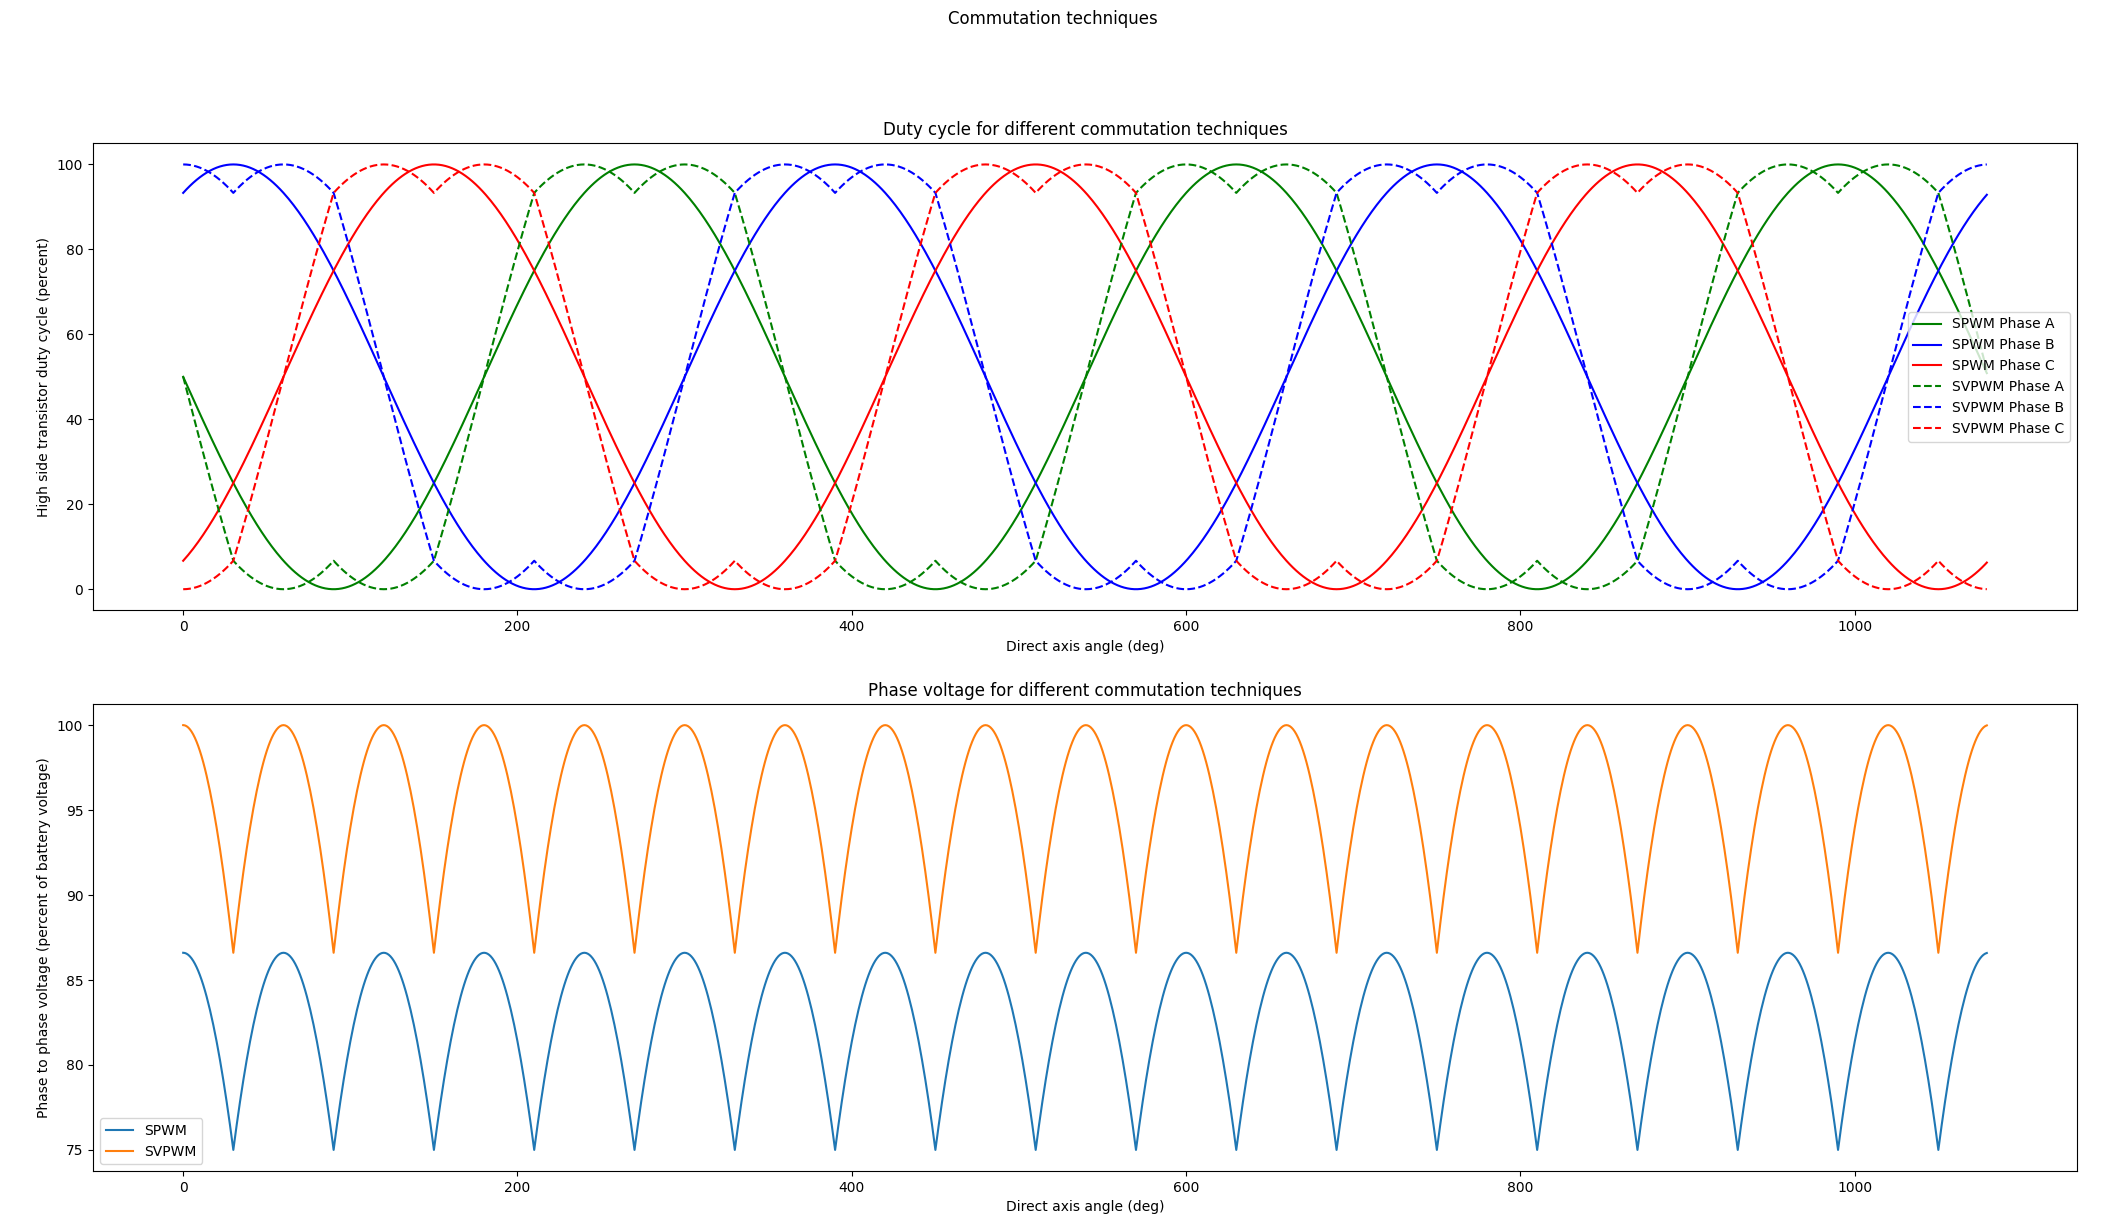
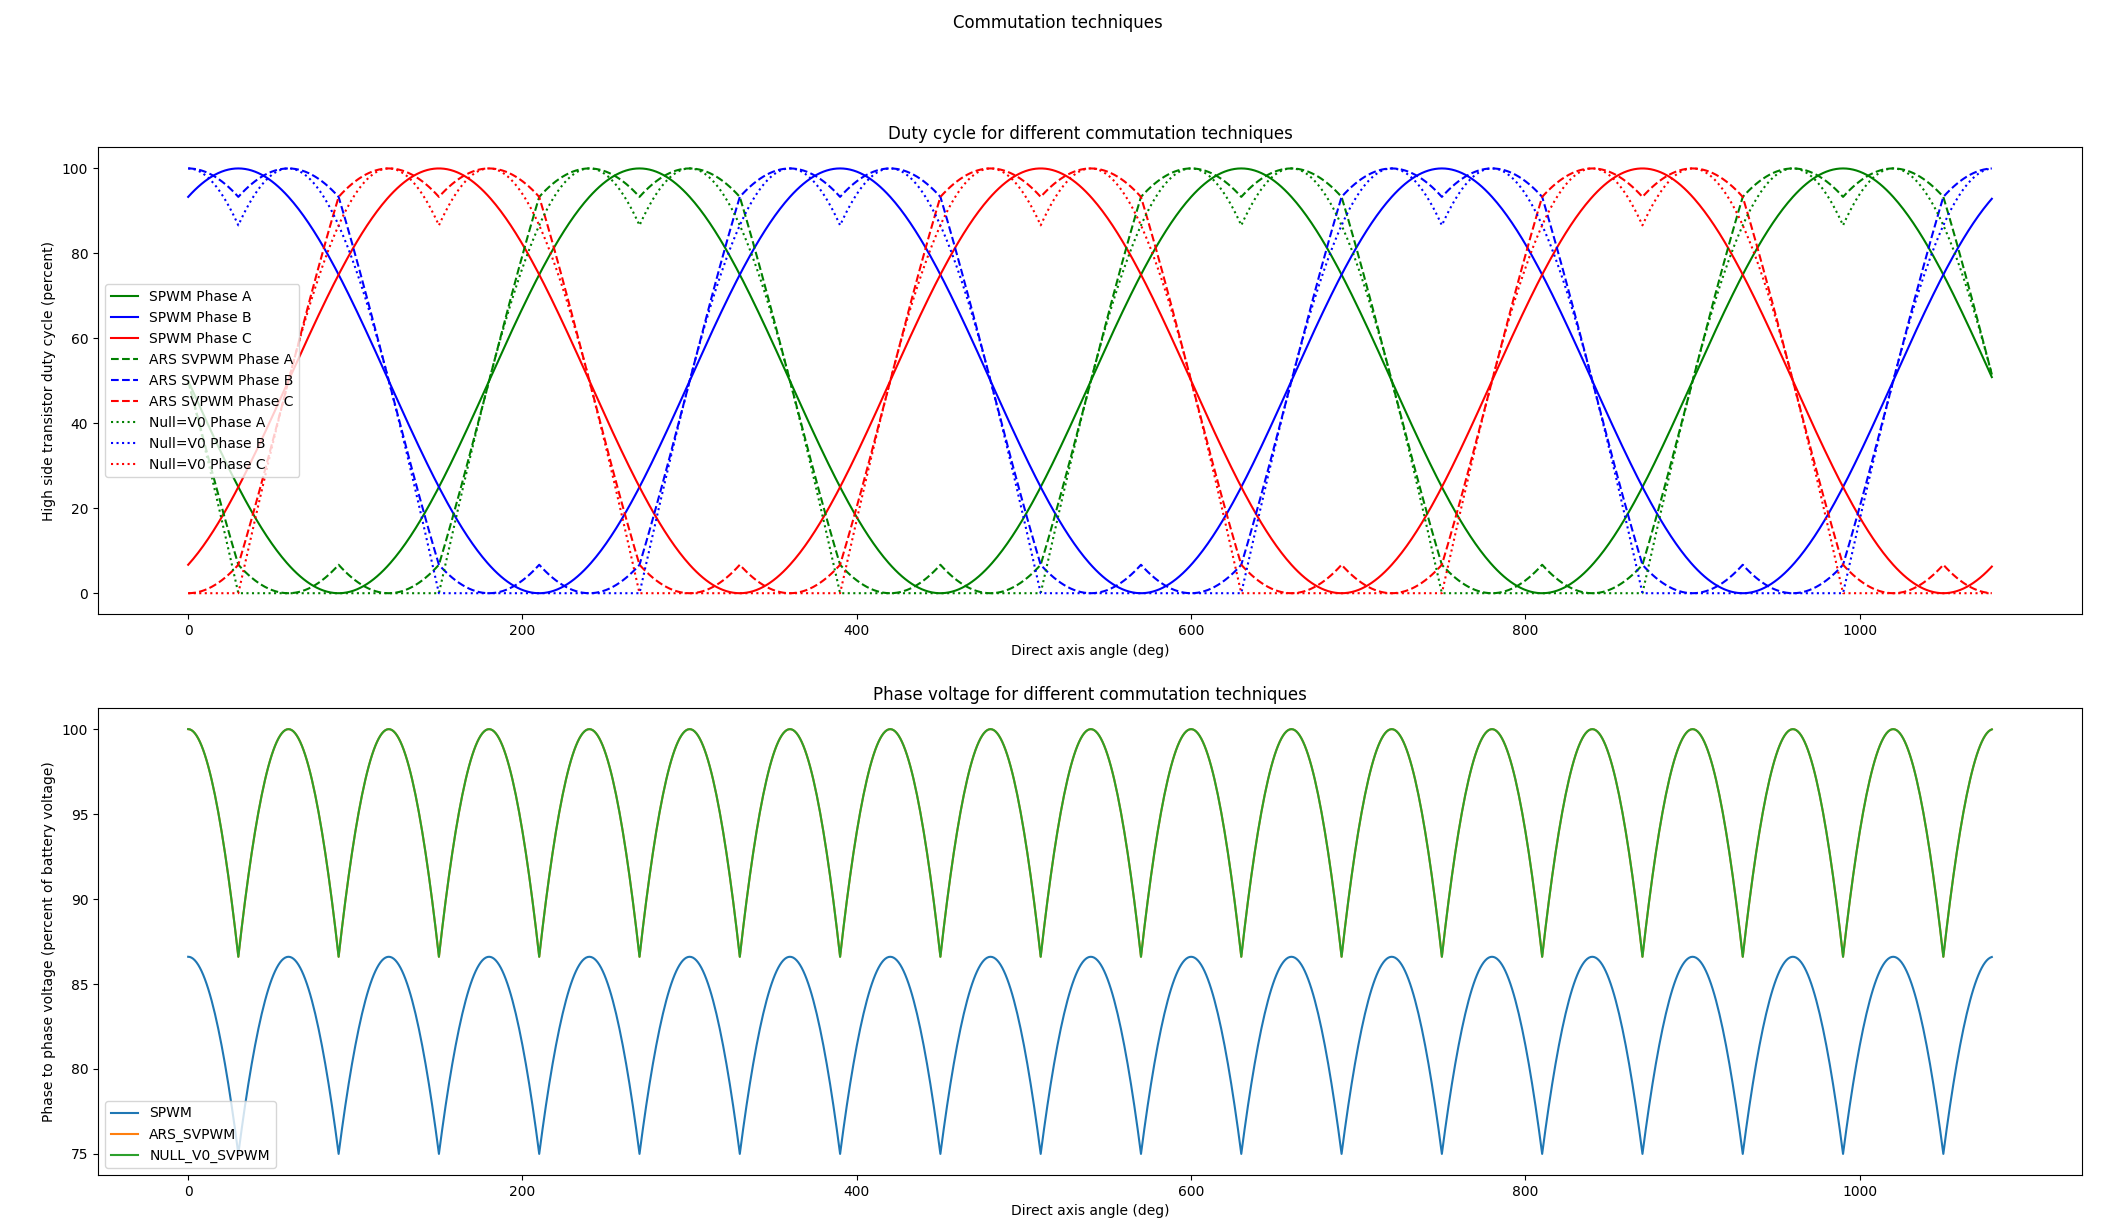
Adding null=v0 commutation

diff --git a/Tools/commutation_techniques.py b/Tools/commutation_techniques.py
@@ -65,11 +65,6 @@ def ars_svpwm(direct_axis, throttle, field_weakening):
     T2 = pwm_period * duty_cycle * math.sin( degToRad(alpha) )
     T0 = pwm_period - T1 - T2
 
-    #w = 0.5*T0 + T2
-    #x = 0.5*T0
-    #y = 0.5*T0 + T1
-    #z = 0.5*T0 + T1 + T2
-
     # this -30 is bugging me, but idk how to get rid of it
     sector = (quadrature_axis // 60) % 6
     if sector == 0: # sector 1
@@ -92,12 +87,57 @@ def ars_svpwm(direct_axis, throttle, field_weakening):
         return ( T1+T2+0.5*T0, 0.5*T0, T1+0.5*T0 )
 
 
+
+def nullv0_svpwm(direct_axis, throttle, field_weakening):
+    # throttle (-100 to 100) is the max duty cycle that will be commanded
+    # field weakening (0 to 100) is the percent of field weaking you desire
+    # returns tuple of each phase's duty cycle (phase a duty, phase b duty, phase c duty)
+    # Null = V0 Space Vector Pulse Width Modulation
+    
+    pwm_period = abs(throttle) # 100 #0.00002 # in seconds # this is supposed to be in seconds, but by putting 100 seconds it outputs duty cycle in percent
+    duty_cycle = 1 # in percent
+    sign = -1 if throttle < 0 else 1
+
+    # control to 90 degrees ahead of the direct axis
+    # to go in reverse swap +90 with -90
+    # to field weaken change +/-90 to something closer to 0
+    quadrature_axis = direct_axis + sign*90*(100-field_weakening)/100
+
+    # this -30 is bugging me, but idk how to get rid of it
+    alpha = quadrature_axis % 60
+    T1 = pwm_period * duty_cycle * math.sin( degToRad(60-alpha) )
+    T2 = pwm_period * duty_cycle * math.sin( degToRad(alpha) )
+    T0 = pwm_period - T1 - T2
+
+    # this -30 is bugging me, but idk how to get rid of it
+    sector = (quadrature_axis // 60) % 6
+    if sector == 0: # sector 1
+        # 0 to 60 degrees
+        return ( T1+T2, T2, 0 )
+    elif sector == 1: # sector 2
+        # 60 to 120 degrees
+        return ( T1, T1+T2, 0 )
+    elif sector == 2: # sector 3
+        # 120 to 180 degrees
+        return ( 0, T1+T2, T2 )
+    elif sector == 3: # sector 4
+        # 180 to 240 degrees
+        return ( 0, T1, T1+T2 )
+    elif sector == 4: # sector 5
+        # 240 to 300 degrees
+        return ( T2, 0, T1+T2 )
+    elif sector == 5: # sector 6
+        # 300 to 360 degrees
+        return ( T1+T2, 0, T1 )
+
+
 if __name__ == '__main__':
     import matplotlib.pyplot as plt # only needed if this is the main script being run
 
     trap_dutys = []
     spwm_dutys = []
-    svpwm_dutys = []
+    ars_svpwm_dutys = []
+    nullv0_svpwm_dutys = []
     electrical_phase = []
 
     # electrical angle is the direct axis angle
@@ -108,7 +148,8 @@ if __name__ == '__main__':
 
         trap_dutys += [trapezoidal(electrical_angle)]
         spwm_dutys += [spwm(electrical_angle, throttle, field_weakening)]
-        svpwm_dutys += [ars_svpwm(electrical_angle, throttle, field_weakening)]
+        ars_svpwm_dutys += [ars_svpwm(electrical_angle, throttle, field_weakening)]
+        nullv0_svpwm_dutys += [nullv0_svpwm(electrical_angle, throttle, field_weakening)]
 
         if throttle < 100:
             throttle += 0.15
@@ -125,31 +166,43 @@ if __name__ == '__main__':
         spwm_b += [b1]
         spwm_c += [c1]
 
-    svpwm_a = []
-    svpwm_b = []
-    svpwm_c = []
-    for a1, b1, c1 in svpwm_dutys:
-        svpwm_a += [a1]
-        svpwm_b += [b1]
-        svpwm_c += [c1]
+    ars_svpwm_a = []
+    ars_svpwm_b = []
+    ars_svpwm_c = []
+    for a1, b1, c1 in ars_svpwm_dutys:
+        ars_svpwm_a += [a1]
+        ars_svpwm_b += [b1]
+        ars_svpwm_c += [c1]
+
+
+    nullv0_svpwm_a = []
+    nullv0_svpwm_b = []
+    nullv0_svpwm_c = []
+    for a1, b1, c1 in nullv0_svpwm_dutys:
+        nullv0_svpwm_a += [a1]
+        nullv0_svpwm_b += [b1]
+        nullv0_svpwm_c += [c1]
 
     # determine the delta voltage (as a percent of VBatt) for each commutation type
     spwm_dV = [max(a, b, c) - min(a, b, c) for a, b, c in spwm_dutys]
-    svpwm_dV = [max(a, b, c) - min(a, b, c) for a, b, c in svpwm_dutys]
+    ars_svpwm_dV = [max(a, b, c) - min(a, b, c) for a, b, c in ars_svpwm_dutys]
+    nullv0_svpwm_dV = [max(a, b, c) - min(a, b, c) for a, b, c in nullv0_svpwm_dutys]
 
     fig, axs = plt.subplots(2)
     fig.suptitle('Commutation techniques')
 
     axs[0].plot(electrical_phase, spwm_a, 'g-', electrical_phase, spwm_b, 'b-', electrical_phase, spwm_c, 'r-',
-                electrical_phase, svpwm_a, 'g--', electrical_phase, svpwm_b, 'b--', electrical_phase, svpwm_c, 'r--',)
+                electrical_phase, ars_svpwm_a, 'g--', electrical_phase, ars_svpwm_b, 'b--', electrical_phase, ars_svpwm_c, 'r--',
+                electrical_phase, nullv0_svpwm_a, 'g:', electrical_phase, nullv0_svpwm_b, 'b:', electrical_phase, nullv0_svpwm_c, 'r:',)
     axs[0].legend(['SPWM Phase A', 'SPWM Phase B', 'SPWM Phase C',
-                    'ARS SVPWM Phase A', 'ARS SVPWM Phase B', 'ARS SVPWM Phase C'])
+                    'ARS SVPWM Phase A', 'ARS SVPWM Phase B', 'ARS SVPWM Phase C',
+                    'Null=V0 Phase A', 'Null=V0 Phase B', 'Null=V0 Phase C'])
     axs[0].set_ylabel('High side transistor duty cycle (percent)')
     axs[0].set_xlabel('Direct axis angle (deg)')
     axs[0].set_title('Duty cycle for different commutation techniques')
 
-    axs[1].plot(electrical_phase, spwm_dV, electrical_phase, svpwm_dV)
-    axs[1].legend(['SPWM', 'ARS_SVPWM'])
+    axs[1].plot(electrical_phase, spwm_dV, electrical_phase, ars_svpwm_dV, electrical_phase, nullv0_svpwm_dV)
+    axs[1].legend(['SPWM', 'ARS_SVPWM', 'NULL_V0_SVPWM'])
     axs[1].set_ylabel('Phase to phase voltage (percent of battery voltage)')
     axs[1].set_xlabel('Direct axis angle (deg)')
     axs[1].set_title('Phase voltage for different commutation techniques')

diff --git a/Tools/GenLookUpTables.py b/Tools/GenLookUpTables.py
@@ -9,36 +9,26 @@ if __name__ == '__main__':
     angles = []
     spwm_lut = []
     ars_svpwm_lut = []
+    nullv0_svpwm_lut = []
     for angle in range(360):
         angles += [angle]
 
         spwm_lut += [int(round(commutation_techniques.spwm(angle, 100, 100)[0]))]
         ars_svpwm_lut += [int(round(commutation_techniques.ars_svpwm(angle, 100, 100)[0]))]
-
-
-    # recreate each phase for the commutation method using the lookup tables to ensure they are correct
-    spwm_phases = []
-    ars_svpwm_phases = []
-    for angle in range(360):
-        # always 0% field weakening
-        a = (angle + 90) % 360
-        b = (angle + 90 + 240) % 360
-        c = (angle + 90 + 120) % 360
-
-        spwm_phases += [[spwm_lut[a], spwm_lut[b], spwm_lut[c]]]
-        ars_svpwm_phases += [[ars_svpwm_lut[a], ars_svpwm_lut[b], ars_svpwm_lut[c]]]
+        nullv0_svpwm_lut += [int(round(commutation_techniques.nullv0_svpwm(angle, 100, 100)[0]))]
 
     # look up tables
     spwm_lut_var = csnake.Variable('SPWM_LUT', 'uint8_t', value=spwm_lut)
     ars_svpwm_lut_var = csnake.Variable('ARS_SVPWM_LUT', 'uint8_t', value=ars_svpwm_lut)
-    
+    null_v0_svpwm_lut_var = csnake.Variable('NULLV0_SVPWM_LUT', 'uint8_t', value=nullv0_svpwm_lut)
+
     # duty cycle structure
     duty_cycle_struct = csnake.Struct('Duty_Cycle_Struct', typedef=True)
     [duty_cycle_struct.add_variable( (i, 'uint8_t') ) for i in ['a', 'b', 'c']]
 
     # commutation type
     comm_type_enum = csnake.Enum('commutation_type_enum', typedef=True)
-    comm_type_enum.add_values( ['spwm_e', 'ars_svpwm_e'] )
+    comm_type_enum.add_values( ['spwm_e', 'ars_svpwm_e', 'nullv0_svpwm_e'] )
 
     # variables
     direct_axis_var = csnake.Variable('direct_axis_angle', 'uint16_t')
@@ -80,6 +70,9 @@ if __name__ == '__main__':
     cw = csnake.CodeWriter()
     cw.add_autogen_comment(os.path.basename(__file__))
     cw.add_line()
+    cw.start_if_def('COMM_LOOK_UP_TABLE_CH', invert=True)
+    cw.add_define('COMM_LOOK_UP_TABLE_CH')
+    cw.add_line()
     cw.add_line(comment='Lookup table used for Sinusoidal PWM commutation')
     cw.add_variable_initialization(spwm_lut_var)
     cw.add_line()
@@ -88,14 +81,35 @@ if __name__ == '__main__':
     cw.add_line(comment='https://youtu.be/5eQyoVMz1dY')
     cw.add_variable_initialization(ars_svpwm_lut_var)
     cw.add_line()
+    cw.add_line(comment='Lookup Table used for Null-V0 Space Vector PWM commutation:')
+    cw.add_line(comment='Understanding Space Vector Modulation by Peter Pinewski https://go.gale.com/ps/i.do?id=GALE%7CA18320578&sid=sitemap&v=2.1&it=r&p=AONE&sw=w&userGroupName=anon%7Ebc1f9809')
+    cw.add_line(comment='https://youtu.be/5eQyoVMz1dY')
+    cw.add_variable_initialization(null_v0_svpwm_lut_var)
+    cw.add_line()
+    cw.end_if_def()
     cw.write_to_file('../include/CommutationLookupTable.ch')
 
+
+    # recreate each phase for the commutation method using the lookup tables to ensure they are correct
+    spwm_phases = []
+    ars_svpwm_phases = []
+    nullv0_svpwm_phases = []
+    for angle in range(360):
+        # always 0% field weakening
+        a = (angle + 90) % 360
+        b = (angle + 90 + 240) % 360
+        c = (angle + 90 + 120) % 360
+
+        spwm_phases += [[spwm_lut[a], spwm_lut[b], spwm_lut[c]]]
+        ars_svpwm_phases += [[ars_svpwm_lut[a], ars_svpwm_lut[b], ars_svpwm_lut[c]]]
+        nullv0_svpwm_phases += [[nullv0_svpwm_lut[a], nullv0_svpwm_lut[b], nullv0_svpwm_lut[c]]]
+
     # plot the results
-    fig, axs = plt.subplots(3)
+    fig, axs = plt.subplots(4)
 
     axs[0].set_title('Lookup Table Results')
-    axs[0].plot(angles, spwm_lut, 'b-', angles, ars_svpwm_lut, 'g--')
-    axs[0].legend(['spwm', 'svpwm'])
+    axs[0].plot(angles, spwm_lut, 'b-', angles, ars_svpwm_lut, 'g-', angles, nullv0_svpwm_lut, 'r-')
+    axs[0].legend(['spwm', 'ars svpwm', 'nullv0 svpwm'])
     axs[0].set_xlabel('Direct Axis Angle, deg')
     axs[0].set_ylabel('High Side Transistor Duty Cycle, percent')
 
@@ -110,5 +124,11 @@ if __name__ == '__main__':
     axs[2].legend(['a', 'b', 'c'])
     axs[2].set_xlabel('Direct Axis Angle, deg')
     axs[2].set_ylabel('High Side Transistor Duty Cycle, percent')
+
+    axs[3].set_title('3 phase recreation using the NULL=V0 SVPWM LUT')
+    axs[3].plot(angles, nullv0_svpwm_phases)
+    axs[3].legend(['a', 'b', 'c'])
+    axs[3].set_xlabel('Direct Axis Angle, deg')
+    axs[3].set_ylabel('High Side Transistor Duty Cycle, percent')
 
     plt.show()

diff --git a/Tools/gen_test_solutions.py b/Tools/gen_test_solutions.py
@@ -9,22 +9,29 @@ def gen_ars_svpwm_3_phases(angle, throttle, field_weakening):
     a, b, c = [int(round(phase)) for phase in commutation_techniques.ars_svpwm(angle, throttle, field_weakening)]
     return (angle, throttle, field_weakening, a, b, c)
 
+def gen_nullv0_svpwm_3_phases(angle, throttle, field_weakening):
+    a, b, c = [int(round(phase)) for phase in commutation_techniques.nullv0_svpwm(angle, throttle, field_weakening)]
+    return (angle, throttle, field_weakening, a, b, c)
+
+
+def save_solutions(name, dutys):
+    # generate solutions to test against
+    with open(name, 'w') as f:
+        for angle, throttle, field_weakening, a, b, c in dutys:
+            f.write('{:d},{:d},{:d},{:d},{:d},{:d},\n'.format(angle, throttle, field_weakening, a, b, c))
 
 if __name__ == '__main__':
     spwm_phases = []
     ars_svpwm_phases = []
+    nullv0_svpwm_phases = []
     for throttle in [100, 50, 0, -50, -100]:
         for field_weakening in [0, 50, 100]:
             for angle in range(360):
                 spwm_phases += [gen_spwm_3_phases(angle, throttle, field_weakening)]
                 ars_svpwm_phases += [gen_ars_svpwm_3_phases(angle, throttle, field_weakening)]
+                nullv0_svpwm_phases += [gen_nullv0_svpwm_3_phases(angle, throttle, field_weakening)]
 
-    # generate solutions to test against
-    with open('../tests/solutions/spwm.csv', 'w') as f:
-        for angle, throttle, field_weakening, a, b, c in spwm_phases:
-            f.write('{:d},{:d},{:d},{:d},{:d},{:d},\n'.format(angle, throttle, field_weakening, a, b, c))
 
-    # generate solutions to test against
-    with open('../tests/solutions/ars_svpwm.csv', 'w') as f:
-        for angle, throttle, field_weakening, a, b, c in ars_svpwm_phases:
-            f.write('{:d},{:d},{:d},{:d},{:d},{:d},\n'.format(angle, throttle, field_weakening, a, b, c))
+    save_solutions('../tests/solutions/spwm.csv', spwm_phases)
+    save_solutions('../tests/solutions/ars_svpwm.csv', ars_svpwm_phases)
+    save_solutions('../tests/solutions/nullv0_svpwm.csv', ars_svpwm_phases)

diff --git a/tests/test_CommutationLookupTable.c b/tests/test_CommutationLookupTable.c
@@ -47,7 +47,7 @@ void test_spwm_commutation(void)
     }
 }
 
-void test_svpwm_commutation(void)
+void test_ars_svpwm_commutation(void)
 {
     Duty_Cycle_Struct phase_dutys;
     char line[1024];
@@ -83,6 +83,42 @@ void test_svpwm_commutation(void)
     }
 }
 
+void test_nullv0_svpwm_commutation(void)
+{
+    Duty_Cycle_Struct phase_dutys;
+    char line[1024];
+    int line_num = 1;
+
+    // read test solutions
+    FILE* stream = fopen("solutions/nullv0_svpwm.csv", "r");
+    while (fgets(line, 1024, stream))
+    {
+        // these must be int otherwise they are not read in properly during sscanf()
+        int angle, throttle, field_weakening, a, b, c = 0;
+        int items_read = sscanf(line, "%d,%d,%d,%d,%d,%d\n", &angle, &throttle, &field_weakening, &a, &b, &c);
+
+        // if 6 items were not read it is not a valid test case
+        if (items_read == 6)
+        {
+            phase_dutys = GetPWMDutyCycles((uint16_t)angle, (int8_t)throttle, (uint8_t)field_weakening, nullv0_svpwm_e);
+
+            char a_error_msg[64];
+            char b_error_msg[64];
+            char c_error_msg[64];
+
+            sprintf(a_error_msg, "(line %d, Phase A)", line_num);
+            sprintf(b_error_msg, "(line %d, Phase B)", line_num);
+            sprintf(c_error_msg, "(line %d, Phase C)", line_num);
+
+            // Some minor rounding errors due to float vs integer math.  Allow up to 1 degrees of tolerance per phase
+            TEST_ASSERT_UINT8_WITHIN_MESSAGE(1, a, phase_dutys.a, a_error_msg);
+            TEST_ASSERT_UINT8_WITHIN_MESSAGE(1, b, phase_dutys.b, b_error_msg);
+            TEST_ASSERT_UINT8_WITHIN_MESSAGE(1, c, phase_dutys.c, c_error_msg);
+        }
+        line_num++;
+    }
+}
+
 int main (int argc, char* args[])
 {
     (void)argc;
@@ -90,6 +126,7 @@ int main (int argc, char* args[])
 
     UNITY_BEGIN();
     RUN_TEST(test_spwm_commutation);
-    RUN_TEST(test_svpwm_commutation);
+    RUN_TEST(test_ars_svpwm_commutation);
+    RUN_TEST(test_nullv0_svpwm_commutation);
     return UNITY_END();
 }

diff --git a/include/CommutationLookupTable.h b/include/CommutationLookupTable.h
@@ -22,7 +22,8 @@
 typedef enum
 {
     spwm_e,
-    ars_svpwm_e
+    ars_svpwm_e,
+    nullv0_svpwm_e
 } commutation_type_enum;
 
 typedef struct
